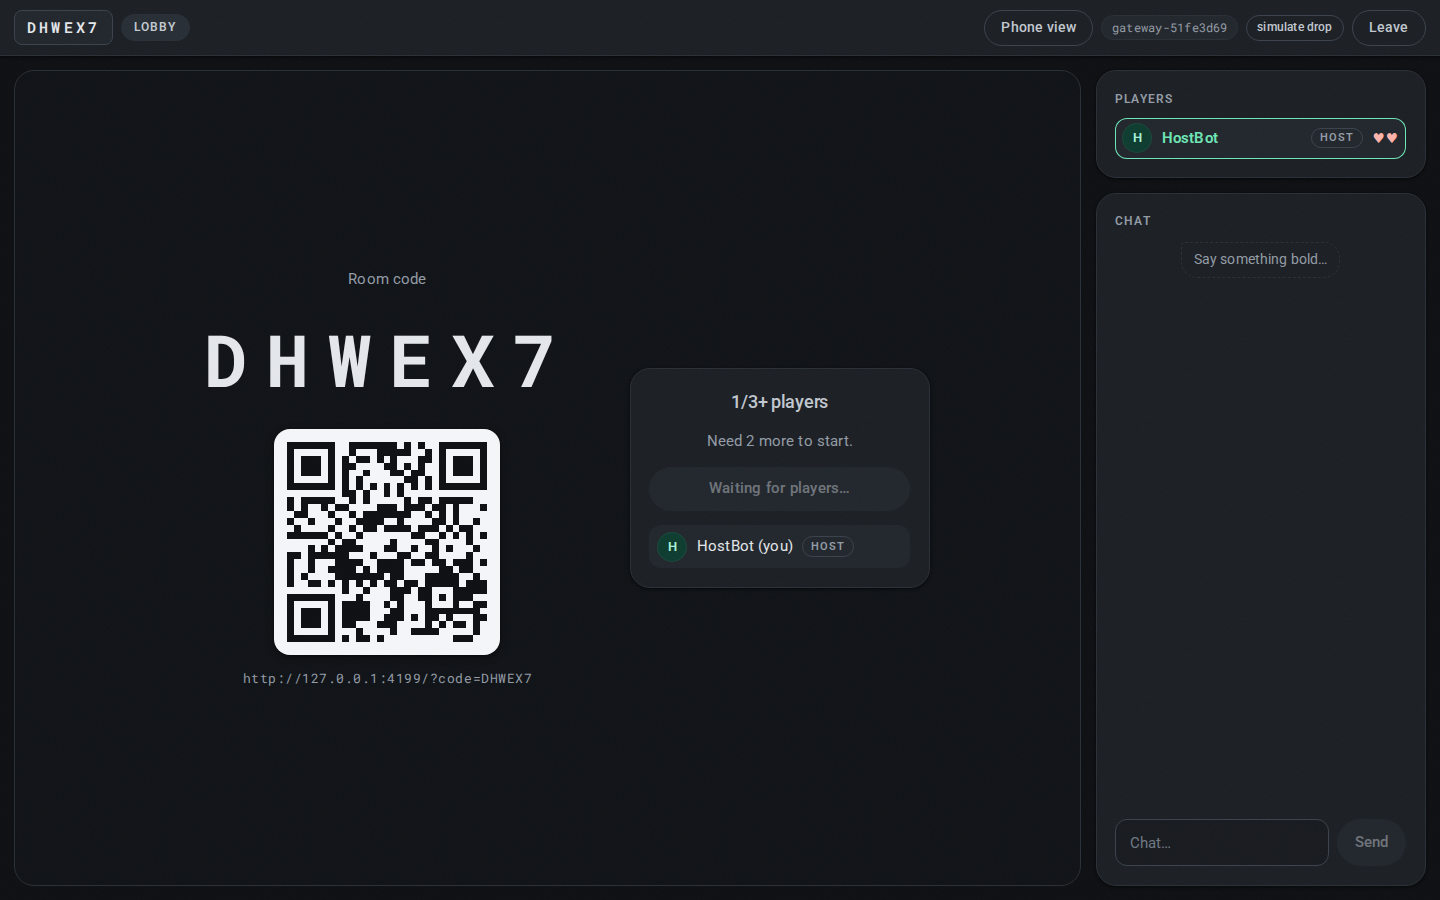
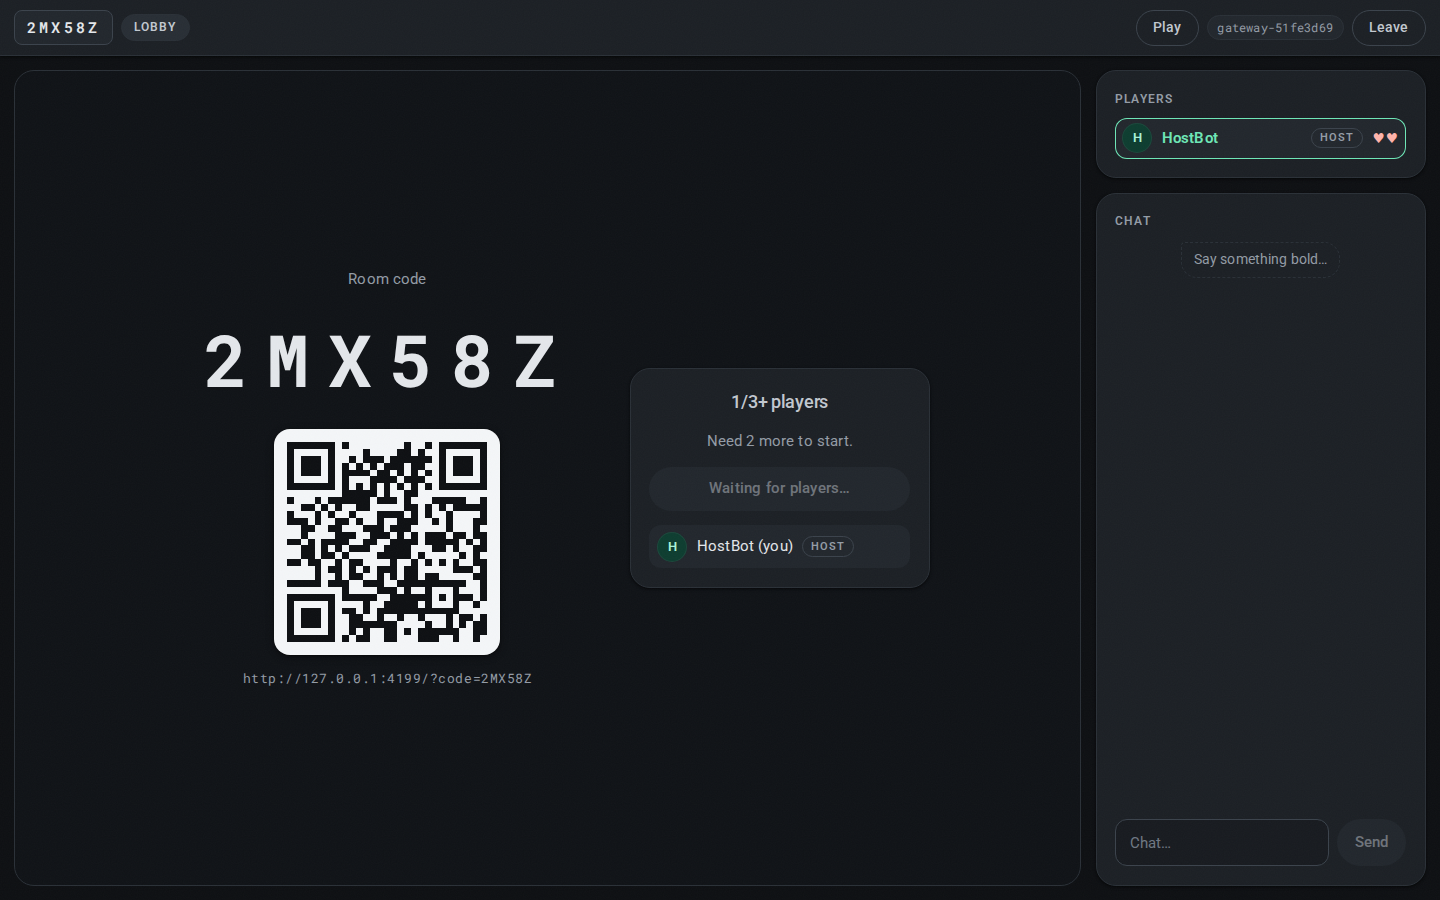
feat(ui): player-focused play view round
- topbar room code + lobby code/QR/join URL only in Spectate view
- waiting quote card stands where the lobby hero was (with invite hint)
- sidebar: players grid projector-only, chat fills Play view
- toggle renamed to Play/Spectate; homepage spacing reverted
- remove host simulate-drop button (admin kill endpoint stays)
- smoke 24/24 (new lobby checks); shots regenerated

diff --git a/frontend/src/game/GameShell.tsx b/frontend/src/game/GameShell.tsx
@@ -33,7 +33,7 @@ export default function GameShell({ game }: { game: Game }) {
           <PhaseView game={game} view={view} />
         </main>
         <aside className="side">
-          <PlayerGrid game={game} />
+          {view === "projector" && <PlayerGrid game={game} />}
           <ChatPanel game={game} />
         </aside>
       </div>
@@ -59,13 +59,15 @@ function TopBar({
   return (
     <header className="topbar">
       <div className="topbar-left">
-        <button
-          className={`room-code${copied ? " copied" : ""}`}
-          title="Copy room code"
-          onClick={() => copy(state.room_code)}
-        >
-          {state.room_code}
-        </button>
+        {view === "projector" && (
+          <button
+            className={`room-code${copied ? " copied" : ""}`}
+            title="Copy room code"
+            onClick={() => copy(state.room_code)}
+          >
+            {state.room_code}
+          </button>
+        )}
         <span className="phase-pill" data-phase={state.phase}>
           {state.phase.replace("_", " ")}
         </span>
@@ -78,20 +80,11 @@ function TopBar({
           </span>
         )}
         <button className="ghost" onClick={() => onView(view === "projector" ? "player" : "projector")}>
-          {view === "projector" ? "Phone view" : "Spectator view"}
+          {view === "projector" ? "Play" : "Spectate"}
         </button>
         <span className="muted small instance" title="Gateway instance">
           {game.instanceId}
         </span>
-        {state.you?.is_host && (
-          <button
-            className="ghost tiny"
-            title="Kill this gateway — clients reconnect to a healthy instance (fault-tolerance demo)"
-            onClick={game.actions.killInstance}
-          >
-            simulate drop
-          </button>
-        )}
         <button className="ghost" onClick={game.actions.leave}>
           Leave
         </button>
@@ -141,20 +134,24 @@ function LobbyView({ game, view }: { game: Game; view: ViewMode }) {
 
   return (
     <div className="phase lobby">
-      <div className="lobby-hero">
-        <p className="muted">Room code</p>
-        <button
-          className={`big-code${copied ? " copied" : ""}`}
-          title="Copy room code"
-          onClick={() => copy(state.room_code)}
-        >
-          {state.room_code}
-        </button>
-        <div className="qr-card">
-          <QRCodeSVG value={joinUrl} size={view === "projector" ? 200 : 132} bgColor="#f4f6f8" fgColor="#0e1013" level="M" />
+      {view === "projector" ? (
+        <div className="lobby-hero">
+          <p className="muted">Room code</p>
+          <button
+            className={`big-code${copied ? " copied" : ""}`}
+            title="Copy room code"
+            onClick={() => copy(state.room_code)}
+          >
+            {state.room_code}
+          </button>
+          <div className="qr-card">
+            <QRCodeSVG value={joinUrl} size={view === "projector" ? 200 : 132} bgColor="#f4f6f8" fgColor="#0e1013" level="M" />
+          </div>
+          <p className="join-url">{joinUrl}</p>
         </div>
-        <p className="join-url">{joinUrl}</p>
-      </div>
+      ) : (
+        <QuoteCard />
+      )}
 
       <div className="lobby-panel card">
         <h2>
@@ -406,6 +403,30 @@ function GameOverView({ game, view }: { game: Game; view: ViewMode }) {
 // ---------------------------------------------------------------------------
 // Sidebar
 // ---------------------------------------------------------------------------
+
+/** Idle filler for the Play view: no player list, just a random line. */
+const QUOTES = [
+  "The safest answer is the one nobody remembers.",
+  "A confident lie beats a nervous truth.",
+  "Someone here has already decided. It isn't you.",
+  "Blend in too well and you vanish.",
+  "Hesitation is a vote you haven't cast yet.",
+  "The quiet ones are the loudest threat.",
+  "Everybody agrees? Somebody is lying.",
+  "Doubt is free — a life costs one round.",
+];
+
+function QuoteCard() {
+  const [quote] = useState(() => QUOTES[Math.floor(Math.random() * QUOTES.length)]);
+  return (
+    <section className="quote card">
+      <h3>While you wait</h3>
+      <p>{quote}</p>
+      <p className="muted small">Switch to Spectate to share the room code.</p>
+    </section>
+  );
+}
+
 function PlayerGrid({ game }: { game: Game }) {
   const state = game.state!;
   const you = state.you;

diff --git a/frontend/src/styles.css b/frontend/src/styles.css
@@ -803,8 +803,10 @@ blockquote {
   min-height: 0;
 }
 
+/* Play view shares Spectate's two-column grid (stage + side) on desktop;
+   the single-column override that squeezed it was the bug. */
 .shell.view-player .shell-body {
-  grid-template-columns: minmax(0, 1fr);
+  grid-template-columns: minmax(0, 1fr) 330px;
 }
 
 .stage {
@@ -1307,7 +1309,8 @@ blockquote {
    ========================================================================= */
 
 .players,
-.chat {
+.chat,
+.quote {
   min-height: 0;
   display: flex;
   flex-direction: column;
@@ -1320,7 +1323,8 @@ blockquote {
 }
 
 .players h3,
-.chat h3 {
+.chat h3,
+.quote h3 {
   margin: 0 0 0.6rem;
   font-size: 0.76rem;
   font-weight: 600;
@@ -1351,6 +1355,29 @@ blockquote {
   overflow: hidden;
   text-overflow: ellipsis;
   white-space: nowrap;
+}
+
+/* Play-view sidebar: random quote stands in for the hidden player list. */
+.quote {
+  flex: 0 0 auto;
+}
+
+.quote p {
+  margin: 0;
+  font-size: 0.93rem;
+  font-style: italic;
+  line-height: 1.55;
+  color: var(--md-on-surface-variant);
+}
+
+/* Player lobby: the waiting/quote card stands in for the code + QR hero. */
+.lobby .quote {
+  max-width: 380px;
+  text-align: center;
+}
+
+.lobby .quote p:not(.muted) {
+  font-size: 1.05rem;
 }
 
 .chat {
@@ -1528,7 +1555,7 @@ blockquote {
   }
 
   .shell.view-player .chat-log {
-    max-height: 45vh;
+    max-height: 55vh;
   }
 
   .topbar {

diff --git a/details.md b/details.md
@@ -321,7 +321,7 @@ REVEAL 8s · APPLY 5s → **≈48s per round**.
 
 ### Fault tolerance (verified in Phase 2)
 
-1. `POST /admin/kill` (host-only, or `kill_instance` from the lobby UI) → gateway dies.
+1. `POST /admin/kill` (host-only) → gateway dies.
 2. Browsers/bots detect the closed socket, back off (500ms→8s exponential), reconnect.
 3. They replay `{type:"reconnect", token}`; Redis's token index maps it to the room.
 4. Game continues from the same round — lives, votes and chat intact.
